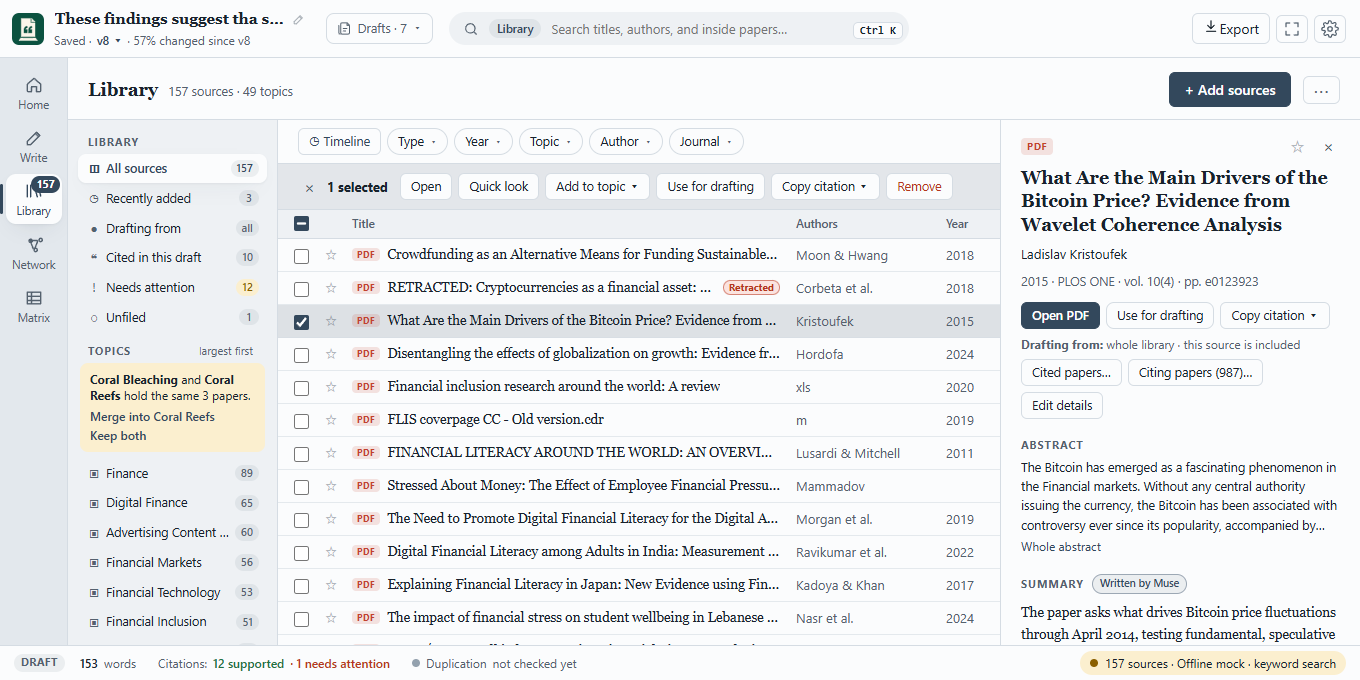
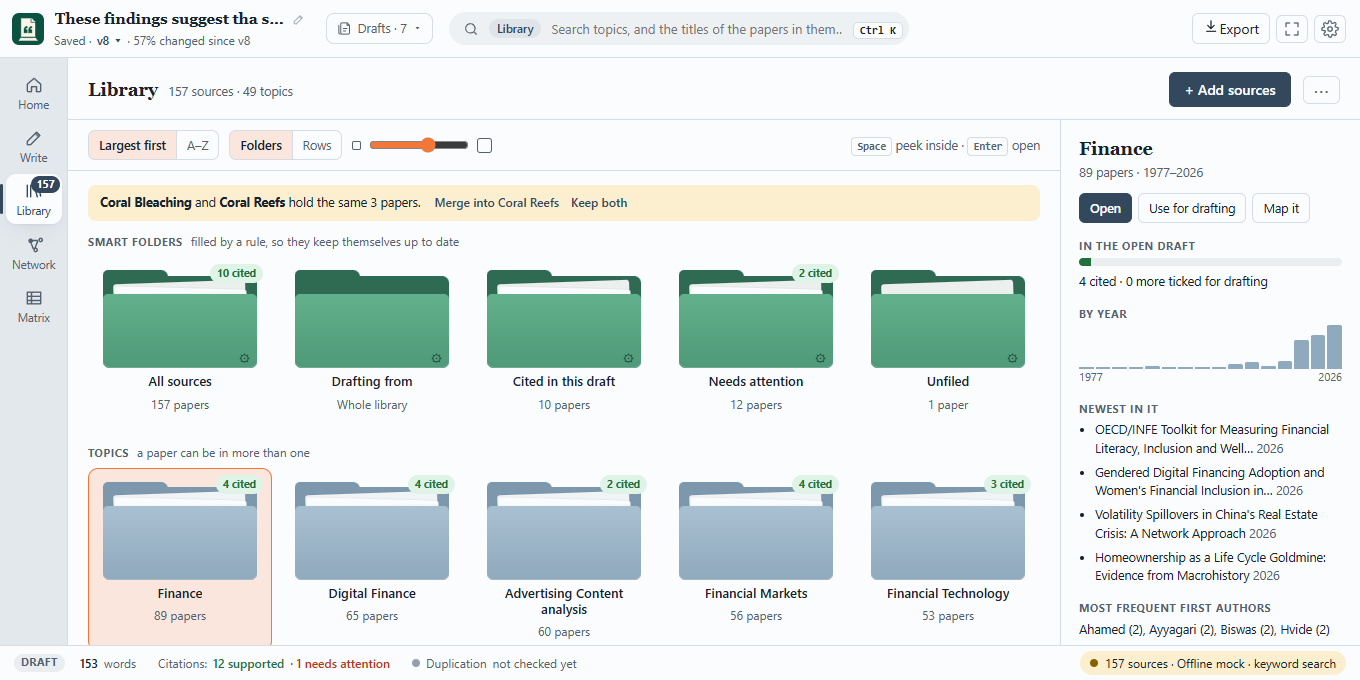
User guide: a new Library screenshot of the folders
The guide's library.png still showed the old sidebar and paper list. The
docs screenshot script now selects the first topic on the front page (and
keeps the smart folders in view) instead of clicking a paper row, and the
image's caption describes the folders. Taken from a copy of the library
with the mock model.

diff --git a/docs/USER_GUIDE.md b/docs/USER_GUIDE.md
@@ -119,7 +119,7 @@ Your files stay where they are. The library keeps its own index in `~/.groundwor
 
 ## 2. Organize the library
 
-![The library: views and topics, one line per paper, and the selected paper's details](images/library.png)
+![The library's folders: smart folders above the topics, and the selected topic summed up on the right](images/library.png)
 
 The library opens on its **folders**, the way a desktop shows a directory: your [topics](#topics), largest first, with the [smart folders](#smart-folders) above them. Open a folder and its papers show one line each, as in a mail app or a file explorer.
 
